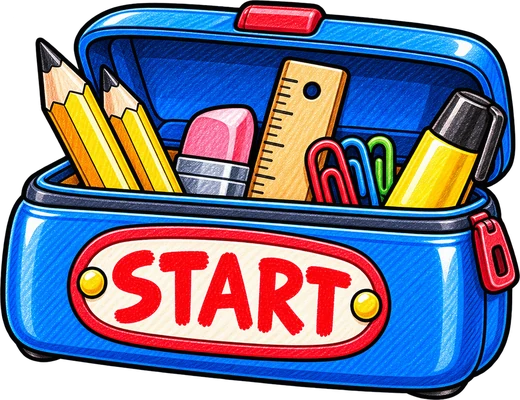
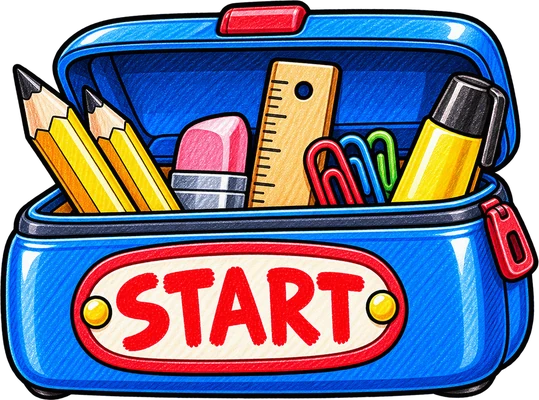
Spawn the pencil right of the pencil case; level the case on the ground
The case art's base was drawn ~5.8deg downhill, so only one foot touched
the platform: rotated level and sunk 4px into the ground's ink line. The
case now sits left of the player, nudging spawns too close to the level's
left edge right (inside the 2-cell spawn buffer).

diff --git a/src/client/game/scenes/GameScene.ts b/src/client/game/scenes/GameScene.ts
@@ -71,7 +71,9 @@ import {
   CAMERA_ZOOM_BOOST,
   CAMERA_FOLLOW_Y_LERP,
   CAMERA_PLAYER_Y_ANCHOR,
+  SPAWN_CASE_CLEARANCE_PX,
   SPAWN_CASE_HEIGHT_PX,
+  SPAWN_CASE_SINK_PX,
   PLAYER_SIZE,
   SLOW_TIME_DURATION_MS,
   SLOW_TIME_SCALE,
@@ -665,7 +667,14 @@ export class GameScene extends Scene {
       onPowerUpCollected: (type, x, y) => this.onPowerUpCollected(type, x, y),
     });
 
-    this.spawn = loaded.spawn;
+    // The pencil case sits left of the player (see SPAWN_CASE_CLEARANCE_PX).
+    const caseFrame = this.textures.getFrame('spawn-marker');
+    const caseScale = SPAWN_CASE_HEIGHT_PX / caseFrame.height;
+    const caseWidth = caseFrame.width * caseScale;
+    this.spawn = {
+      x: Math.max(loaded.spawn.x, caseWidth + SPAWN_CASE_CLEARANCE_PX),
+      y: loaded.spawn.y,
+    };
     this.levelWidth = loaded.levelWidth;
     this.movingObjectTweens = loaded.movingObjectTweens;
     this.resetMovingObjects = loaded.resetMovingObjects;
@@ -697,12 +706,16 @@ export class GameScene extends Scene {
     drawKenneyScenery(this, this.levelWidth, levelVersion.objects, levelVersion.levelId);
     drawGroundDetail(this, levelVersion.objects, levelVersion.levelId);
 
-    // The spawn pencil case the player comes out of — above the background,
-    // behind the player and every level object.
+    // The spawn pencil case the player comes out of, just to his left —
+    // above the background, behind the player and every level object.
     this.add
-      .image(this.spawn.x, this.spawn.y, 'spawn-marker')
-      .setOrigin(0.5, 1)
-      .setScale(SPAWN_CASE_HEIGHT_PX / this.textures.getFrame('spawn-marker').height)
+      .image(
+        this.spawn.x - SPAWN_CASE_CLEARANCE_PX,
+        this.spawn.y + SPAWN_CASE_SINK_PX,
+        'spawn-marker'
+      )
+      .setOrigin(1, 1)
+      .setScale(caseScale)
       .setDepth(-0.25);
 
     // waiting=true: hold at spawn (idle, no auto-run) until the first tap

diff --git a/src/client/game/constants.ts b/src/client/game/constants.ts
@@ -166,6 +166,15 @@ export const FINISH_DISPLAY_HEIGHT_PX = 120;
 // out of it. The editors draw it smaller (SPAWN_ICON_SIZE) so it fits one
 // grid tile.
 export const SPAWN_CASE_HEIGHT_PX = PLAYER_SIZE;
+// The player starts just right of the case, this far from its right edge
+// (about the pencil's visual half-width plus a small gap), so the case is
+// never hidden behind him. A spawn authored too close to the level's left
+// edge for the case to fit is nudged right; the editor's spawn buffer
+// (EDITOR_SPAWN_BUFFER_CELLS) keeps hazards well clear of that nudge.
+export const SPAWN_CASE_CLEARANCE_PX = 24;
+// Sinks the case's base into the ground tile's ink line (the tiles draw
+// over it) so it rests on the drawn edge instead of hovering above it.
+export const SPAWN_CASE_SINK_PX = 4;
 
 // One beat of the finish-line victory dance (ms per pose). The finish
 // gate's pulse (Juice.playFinishGateAnimation) is timed on the same beat
